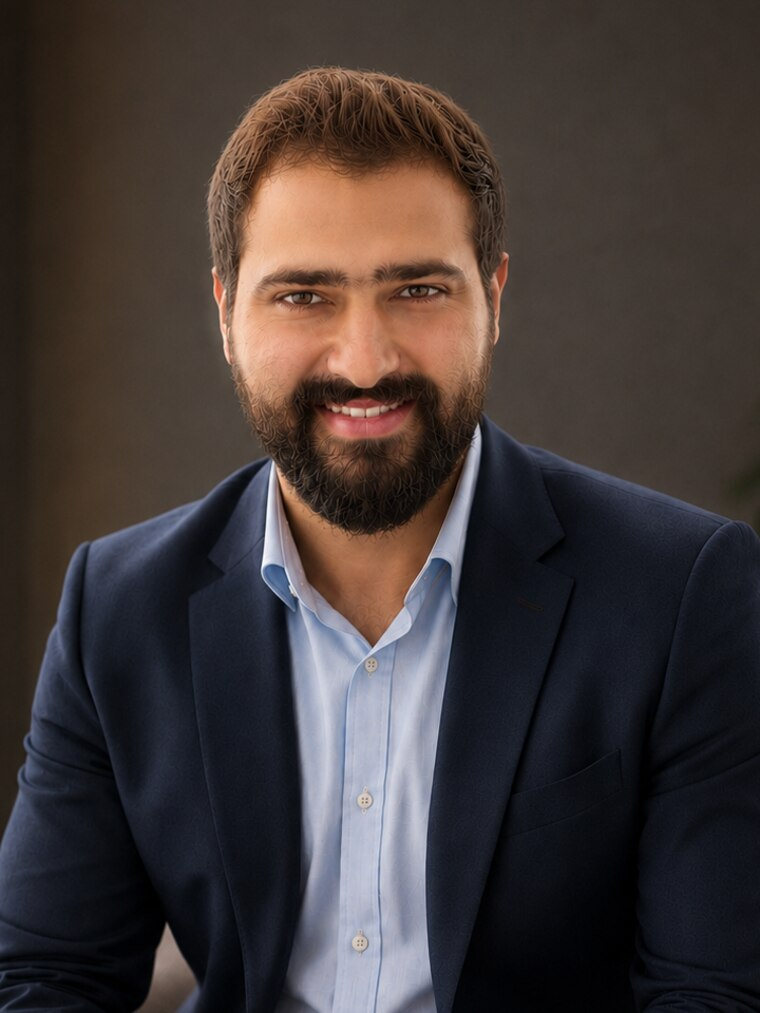
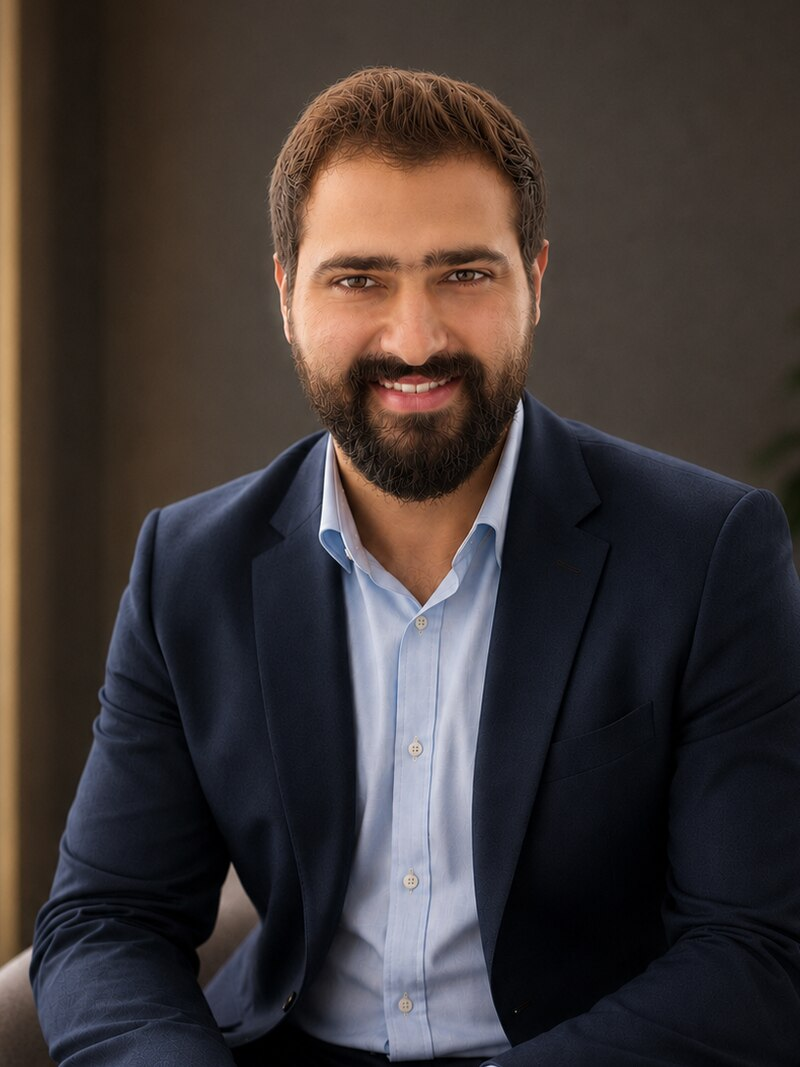
Zoom out portrait further; simplify contact headline to "Let's talk."

diff --git a/index.html b/index.html
@@ -323,7 +323,7 @@
   <section class="contact" id="contact">
     <div class="container contact-inner reveal">
       <p class="about-eyebrow contact-eyebrow">Open to the right senior leadership mandate · GCC-wide</p>
-      <h2 class="contact-title">Bring me the event that can't go wrong.</h2>
+      <h2 class="contact-title">Let's talk.</h2>
       <a href="mailto:[email redacted]?subject=Events%20Director%20opportunity" class="btn btn-primary btn-lg">Start a conversation</a>
       <div class="contact-links">
         <a href="mailto:[email redacted]" class="contact-link">[email redacted]</a>